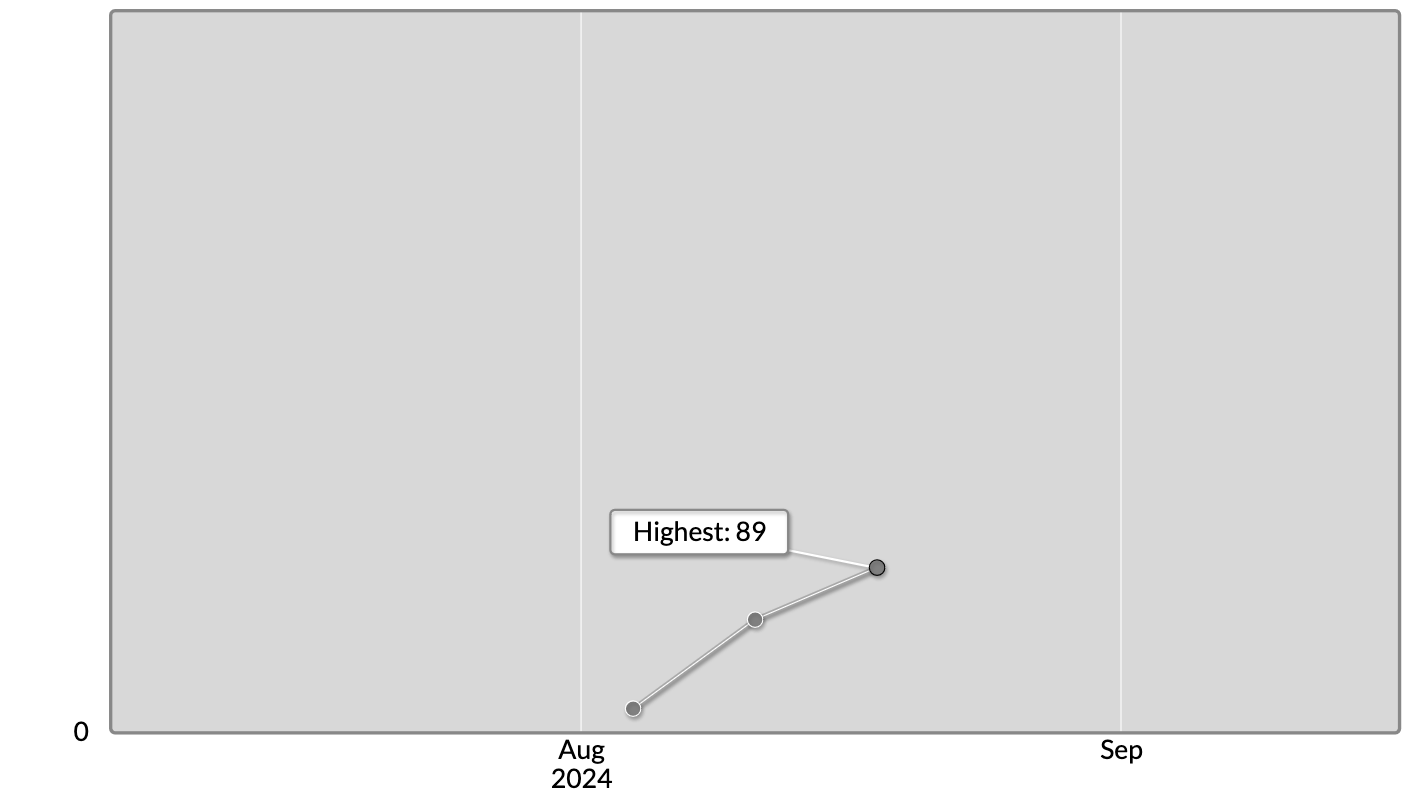
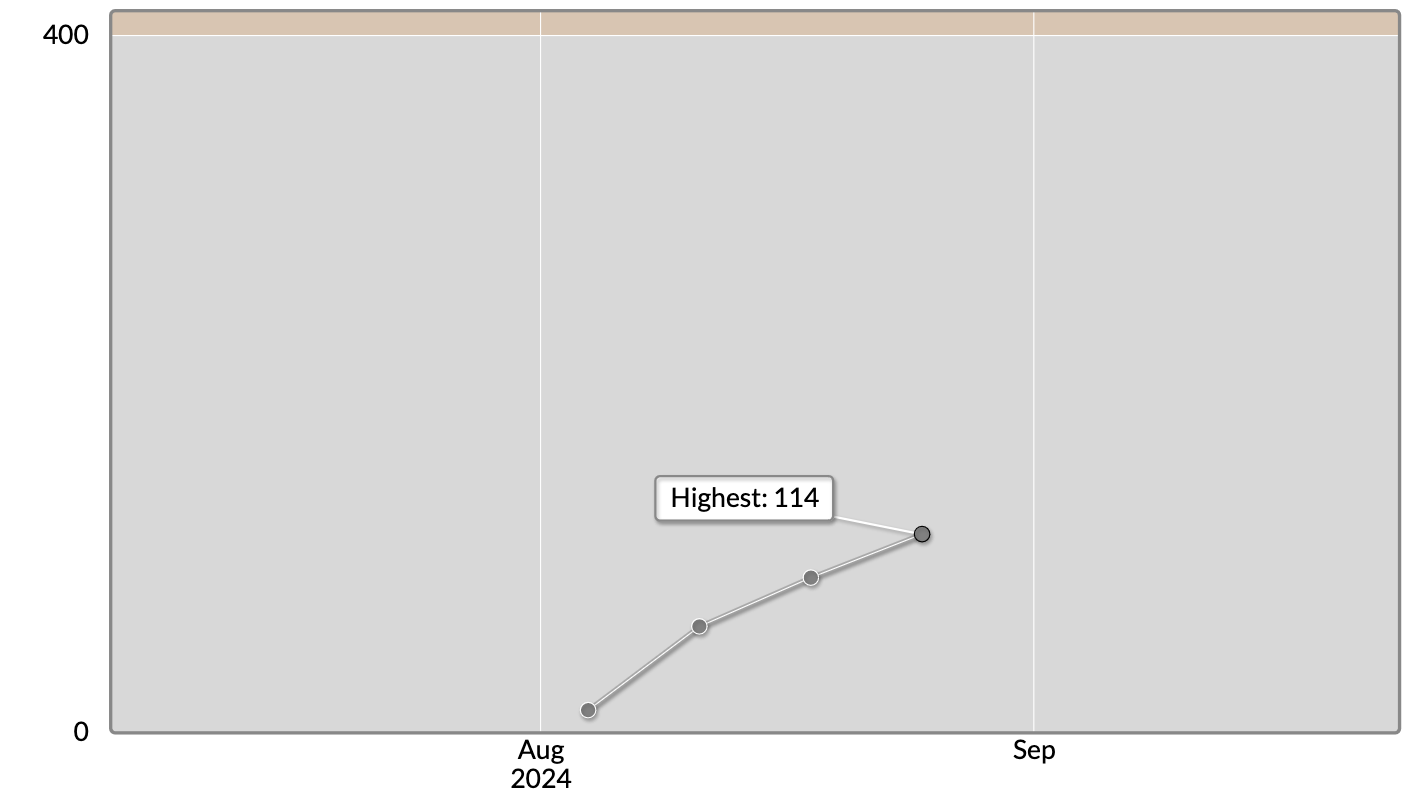
update from abc368 competition

diff --git a/README.md b/README.md
@@ -1,13 +1,11 @@
 # AtCoder Solutions
 
-Goal: get to Cyan rank (approx top 8%) within 2024
-
 All solutions in C++
 
-## Current Progress
+## Statistics
 
-- Contests participated: 3
-- Rating: 89
+- Contests participated: 4
+- Rating: 114
 - Color: Grey
 
 ![Yuta's ranking progression graph](/ranking.png)
